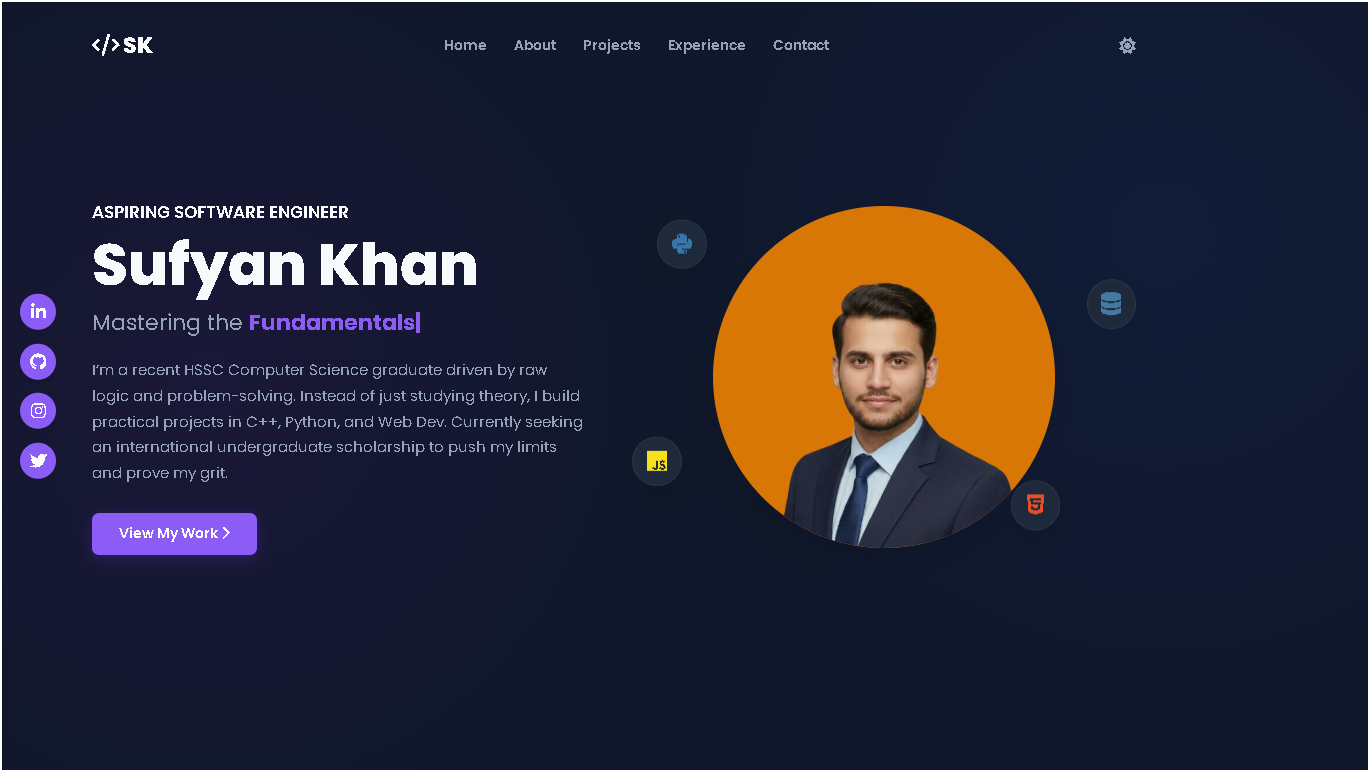
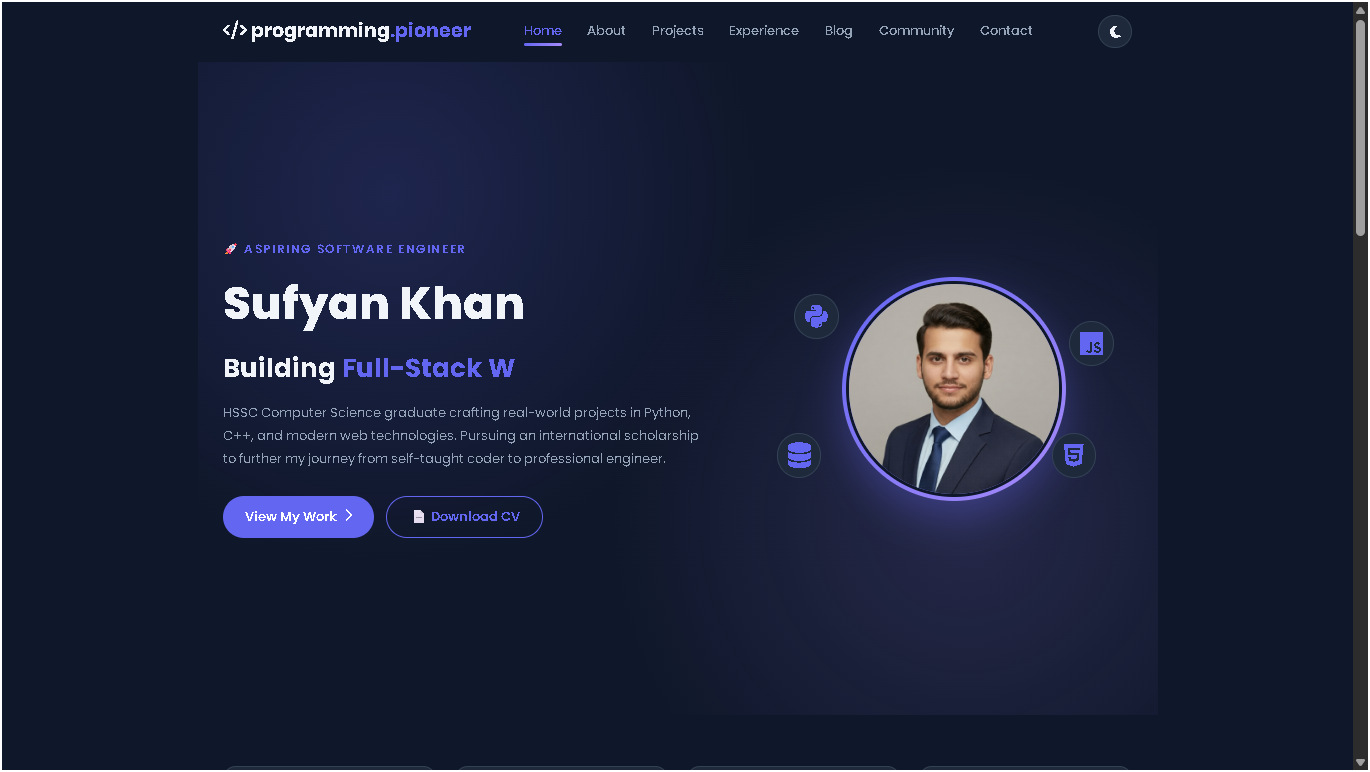
feat: complete portfolio website with blog, community, and responsive design

diff --git a/README.md b/README.md
@@ -1,82 +1,84 @@
-<h1 align="center">🚀 Sufyan Portfolio</h1>
+# 🚀 Sufyan Khan — Programming Pioneer
 
-<p align="center">
-  <a href="https://programmingpioneer.github.io/sufyan-portfolio/">
-    <img src="https://img.shields.io/badge/Live_Demo-View_Website-green?style=for-the-badge&logo=githubpages" alt="Live Demo">
-  </a>
-  <a href="https://github.com/programmingpioneer/sufyan-portfolio">
-    <img src="https://img.shields.io/badge/GitHub-Repository-blue?style=for-the-badge&logo=github" alt="GitHub Repo">
-  </a>
-</p>
+A modern, responsive personal portfolio built with pure HTML, CSS, and JavaScript.
 
-<p align="center">
-  <b>Modern, responsive personal portfolio</b><br>
-  Built with pure HTML, CSS, and JavaScript
-</p>
+[![Live Demo](https://img.shields.io/badge/Live_Demo-View_Website-6366f1?style=for-the-badge&logo=githubpages&logoColor=white)](https://programmingpioneer.github.io/ProgrammingPioneer/)
+[![GitHub Repository](https://img.shields.io/badge/GitHub-Repository-181717?style=for-the-badge&logo=github&logoColor=white)](https://github.com/programmingpioneer/ProgrammingPioneer)
 
 ---
 
-## 🖼 Website Preview
+## 🖼 Preview
 
-<p align="center">
-  <img src="Web-preview.png" alt="Sufyan Portfolio Live Demo" width="90%">
-</p>
+<div align="center">
+  <img src="screenshots/web-preview.png" alt="Sufyan Portfolio Preview" width="70%">
+</div>
 
----
-
-## 📁 Project Structure
-📂 sufyan-portfolio/  
-│  
-├── 📄 index.html      # Main HTML file  
-├── 🎨 style.css       # Styling & animations  
-├── 🧠 script.js       # Interactive features  
-└── 📖 README.md       # Project documentation
-
-
----
 
 ## ✨ Features
 
-| Feature               | Description                        |
-|-----------------------|------------------------------------|
-| 📱 Fully Responsive   | Works on mobile, tablet, desktop   |
-| ⚡ Lightweight & Fast | No frameworks – pure code          |
-| 🎨 Modern UI/UX       | Clean design, smooth hover effects |
-| 📁 Projects Showcase  | Display my best work                |
-| 📬 Contact Ready      | Easy to reach via social links     |
+- 🌙 Dark / Light theme toggle
+- 📱 Fully responsive (mobile, tablet, desktop)
+- ⚡ Pure HTML, CSS, and Vanilla JavaScript — no frameworks
+- 🎨 Smooth animations (scroll reveal, 3D tilt, animated counters)
+- 🛠 Interactive project showcase with detail modals
+- 🧠 Skills, stats, and tech stack sections
+- 📝 Blog with 3 learning articles
+- 🌍 Community page with 14 social links
+- 📬 Functional contact form (Formspree)
+- 🔍 SEO optimized (meta tags + Schema.org)
 
 ---
 
 ## 🛠 Tech Stack
 
-<p align="left">
-  <img src="https://img.shields.io/badge/HTML5-E34F26?style=for-the-badge&logo=html5&logoColor=white" alt="HTML5">
-  <img src="https://img.shields.io/badge/CSS3-1572B6?style=for-the-badge&logo=css3&logoColor=white" alt="CSS3">
-  <img src="https://img.shields.io/badge/JavaScript-F7DF1E?style=for-the-badge&logo=javascript&logoColor=black" alt="JavaScript">
-</p>
+![HTML5](https://img.shields.io/badge/HTML5-E34F26?style=for-the-badge&logo=html5&logoColor=white)
+![CSS3](https://img.shields.io/badge/CSS3-1572B6?style=for-the-badge&logo=css3&logoColor=white)
+![JavaScript](https://img.shields.io/badge/JavaScript-F7DF1E?style=for-the-badge&logo=javascript&logoColor=black)
+![GitHub](https://img.shields.io/badge/GitHub-181717?style=for-the-badge&logo=github&logoColor=white)
+
+---
+
+## 📁 Project Structure
+
+- **index.html** — Home (hero, stats, skills, featured projects)
+- **about.html** — About (education timeline, values)
+- **projects.html** — Projects (filter + detail modals)
+- **experience.html** — Experience (timeline + awards)
+- **blog.html** — Blog (3 learning articles)
+- **community.html** — Community links wall (14 social links)
+- **contact.html** — Contact form (Formspree)
+- **style.css** — Styling & animations
+- **script.js** — Interactive features
+- **screenshots/** — Project preview images
+- **README.md** — Documentation
+- **LICENSE** — MIT License
 
 ---
 
 ## 🌐 Live Preview
 
-🔗 [https://programmingpioneer.github.io/sufyan-portfolio/](https://programmingpioneer.github.io/sufyan-portfolio/)
+[View Live Portfolio](https://programmingpioneer.github.io/ProgrammingPioneer/)
 
 ---
 
-## 📫 Connect
+## 📫 Connect With Me
 
-<p align="left">
-  <a href="https://github.com/programmingpioneer"><img src="https://img.shields.io/badge/GitHub-100000?style=for-the-badge&logo=github&logoColor=white" alt="GitHub"></a>
-  <a href="7t7sufyan@gmail.com"><img src="https://img.shields.io/badge/Email-D14836?style=for-the-badge&logo=gmail&logoColor=white" alt="Email"></a>
-  <a href="linkedin.com/in/sufyan-khans"><img src="https://img.shields.io/badge/LinkedIn-0077B5?style=for-the-badge&logo=linkedin&logoColor=white" alt="LinkedIn"></a>
-</p>
+- [GitHub](https://github.com/programmingpioneer)
+- [LinkedIn](https://linkedin.com/in/sufyan-khans)
+- [Instagram](https://www.instagram.com/programmingpioneer)
+- [Telegram](https://t.me/programmingpioneer)
+- [Discord](https://discord.gg/qV2ShPndb)
+- [X / Twitter](https://x.com/programerPioner)
+- [WhatsApp Community](https://chat.whatsapp.com/ETlhMctSrGv7qA9hqEUzAF?s=cl&p=a&mlu=4)
+- [WhatsApp Channel](https://whatsapp.com/channel/0029VavMiWXEwEjsYWhfoW1i)
+- [Email](mailto:7t7sufyan@gmail.com)
 
 ---
 
-<p align="center">
-  © 2026 Sufyan · Open source under MIT License
-</p>
+## 📜 License
 
-<p align="center">
-  ⭐ Star this repo if you like it!
-</p>
+This project is licensed under the [MIT License](LICENSE).
+
+---
+
+© 2026 Sufyan Khan — Programming Pioneer
